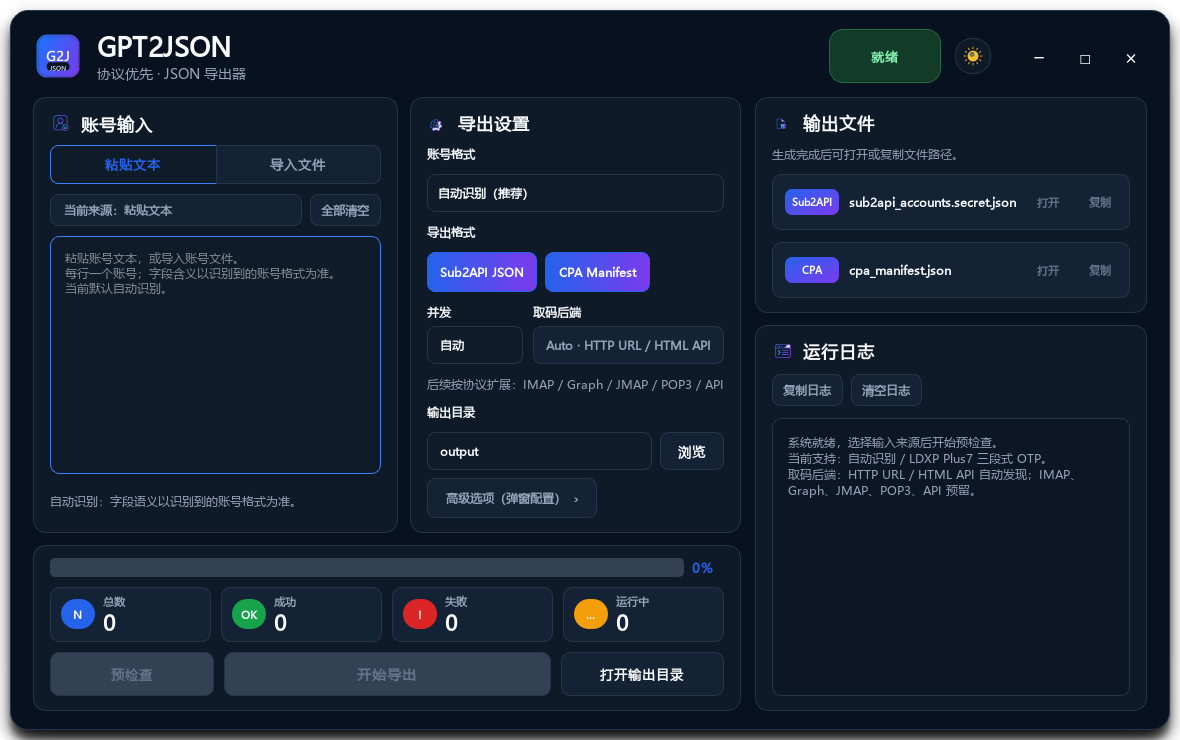
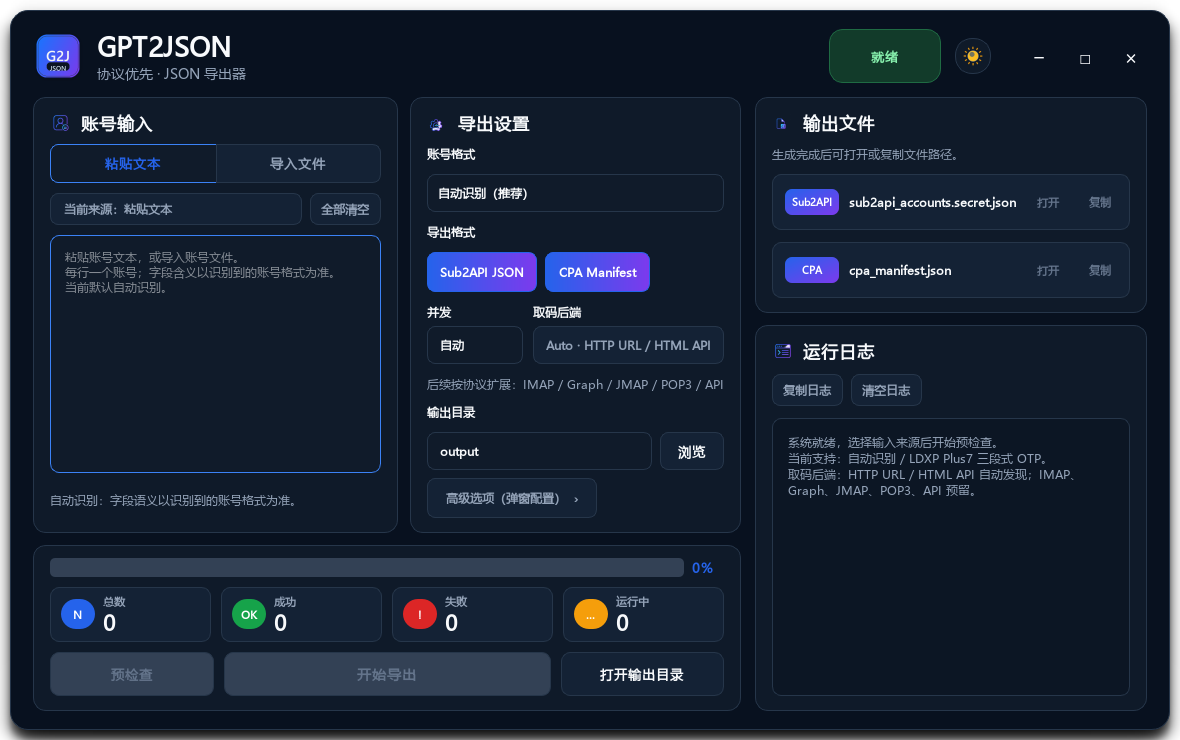
Improve input alignment and advanced dialog

diff --git a/gpt2json/gui.py b/gpt2json/gui.py
@@ -507,6 +507,7 @@ class MainWindow(QMainWindow):
         self.input_hint_label.setWordWrap(True)
         self.input_hint_label.setMinimumHeight(34)
         layout.addWidget(self.input_hint_label)
+        layout.addStretch(1)
         return card
 
     def _build_settings_card(self) -> QFrame:
@@ -1076,31 +1077,62 @@ class MainWindow(QMainWindow):
         dialog = QDialog(self)
         dialog.setWindowTitle("高级选项")
         dialog.setModal(True)
-        dialog.setFixedSize(360, 180)
+        dialog.setObjectName("AdvancedDialog")
+        dialog.setFixedSize(460, 286)
         layout = QVBoxLayout(dialog)
-        layout.setContentsMargins(18, 16, 18, 14)
-        layout.setSpacing(12)
-        grid = QGridLayout()
-        grid.setHorizontalSpacing(10)
-        grid.setVerticalSpacing(8)
+        layout.setContentsMargins(20, 18, 20, 16)
+        layout.setSpacing(10)
+        title = QLabel("高级选项")
+        title.setObjectName("DialogTitle")
+        subtitle = QLabel("这些参数只影响下一次导出；普通情况下保持默认即可。")
+        subtitle.setObjectName("DialogSubtitle")
+        layout.addWidget(title)
+        layout.addWidget(subtitle)
         http_spin = self._spin(10, 600, int(self.timeout_spin.value()))
         otp_spin = self._spin(10, 600, int(self.otp_timeout_spin.value()))
         interval_spin = self._spin(1, 60, int(self.otp_interval_spin.value()))
-        grid.addWidget(self._field_label("HTTP 超时"), 0, 0)
-        grid.addWidget(self._field_label("OTP 超时"), 0, 1)
-        grid.addWidget(self._field_label("轮询间隔"), 0, 2)
-        grid.addWidget(http_spin, 1, 0)
-        grid.addWidget(otp_spin, 1, 1)
-        grid.addWidget(interval_spin, 1, 2)
+        for spin in (http_spin, otp_spin, interval_spin):
+            spin.setFixedWidth(110)
+        grid = QGridLayout()
+        grid.setHorizontalSpacing(14)
+        grid.setVerticalSpacing(10)
+
+        def add_row(row: int, label: str, help_text: str, spin: QSpinBox) -> None:
+            label_box = QVBoxLayout()
+            label_box.setContentsMargins(0, 0, 0, 0)
+            label_box.setSpacing(2)
+            name = QLabel(label)
+            name.setObjectName("DialogField")
+            desc = QLabel(help_text)
+            desc.setObjectName("DialogHelp")
+            label_box.addWidget(name)
+            label_box.addWidget(desc)
+            grid.addLayout(label_box, row, 0)
+            grid.addWidget(spin, row, 1)
+
+        add_row(0, "HTTP 请求超时（秒）", "登录、OAuth、接口请求的单次等待时间。", http_spin)
+        add_row(1, "验证码等待超时（秒）", "触发邮箱验证码后，最多轮询取码源多久。", otp_spin)
+        add_row(2, "验证码轮询间隔（秒）", "两次取码请求之间的间隔，过低可能触发限流。", interval_spin)
+        grid.setColumnStretch(0, 1)
         layout.addLayout(grid)
-        hint = QLabel("单位：秒。保存后会用于下一次导出。")
-        hint.setObjectName("HintText")
-        layout.addWidget(hint)
         buttons = QDialogButtonBox(QDialogButtonBox.StandardButton.Ok | QDialogButtonBox.StandardButton.Cancel)
         buttons.accepted.connect(dialog.accept)
         buttons.rejected.connect(dialog.reject)
         layout.addWidget(buttons)
-        dialog.setStyleSheet(self.styleSheet())
+        p = self.palette()
+        dialog.setStyleSheet(
+            f"""
+            #AdvancedDialog {{ background:{p['card']}; }}
+            #DialogTitle {{ color:{p['text']}; font-size:18px; font-weight:900; }}
+            #DialogSubtitle, #DialogHelp {{ color:{p['muted']}; font-size:12px; }}
+            #DialogField {{ color:{p['text']}; font-size:13px; font-weight:800; }}
+            QSpinBox {{ min-height:36px; border-radius:8px; padding-left:10px; padding-right:8px; color:{p['text']}; background:{p['input']}; border:1px solid {p['border']}; font-size:12px; font-weight:800; }}
+            QSpinBox:focus {{ border:1px solid #60A5FA; }}
+            QSpinBox::up-button, QSpinBox::down-button {{ width:20px; border:none; background:transparent; }}
+            QPushButton {{ min-height:32px; min-width:72px; border-radius:8px; color:{p['text']}; background:{p['soft']}; border:1px solid {p['border']}; font-weight:800; }}
+            QPushButton:hover {{ border-color:#3B82F6; color:#2563EB; }}
+            """
+        )
         if dialog.exec() == QDialog.DialogCode.Accepted:
             self.timeout_spin.setValue(http_spin.value())
             self.otp_timeout_spin.setValue(otp_spin.value())
